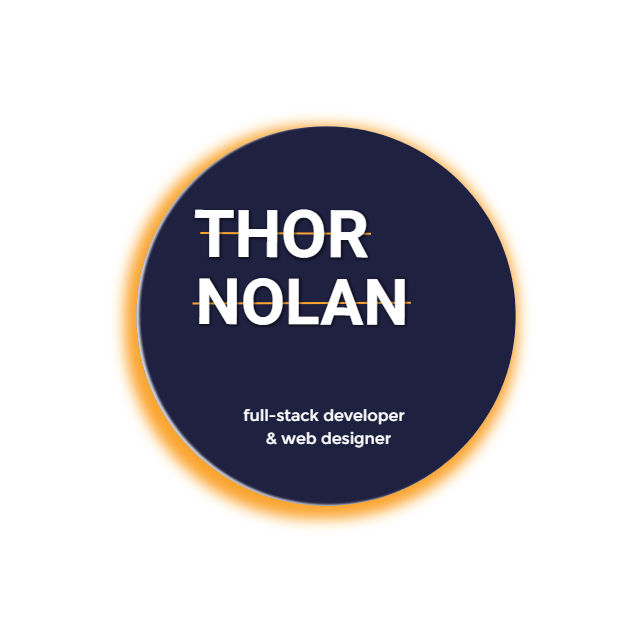
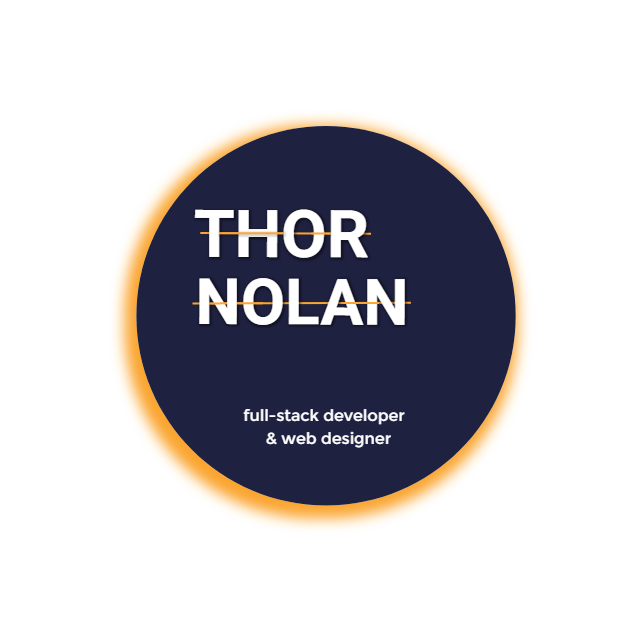
Overhaul of site color scheme, starting transition into scss with better organization of layout and component css

diff --git a/assets/javascript/app.js b/assets/javascript/app.js
@@ -19,20 +19,20 @@ $(document).ready(function () {
   });
   
   // Active link switching
-  $(window).scroll(function() {
-    var scrollbarLocation = $(this).scrollTop();
+  // $(window).scroll(function() {
+  //   var scrollbarLocation = $(this).scrollTop();
     
-    scrollLink.each(function() {
+  //   scrollLink.each(function() {
       
-      var sectionOffset = $(this.hash).offset().top - 20;
+  //     var sectionOffset = $(this.hash).offset().top - 20;
       
-      if ( sectionOffset <= scrollbarLocation ) {
-        $(this).parent().addClass('active');
-        $(this).parent().siblings().removeClass('active');
-      }
-    })
+  //     if ( sectionOffset <= scrollbarLocation ) {
+  //       $(this).parent().addClass('active');
+  //       $(this).parent().siblings().removeClass('active');
+  //     }
+  //   })
     
-  });
+  // });
 
   resizeParallax();
 
@@ -130,23 +130,23 @@ $(document).ready(function () {
   particlesJS("particles-js", {
     "particles": {
       "number": {
-        "value": 290,
+        "value": 336,
         "density": {
           "enable": true,
-          "value_area": 4008.530152163807
+          "value_area": 2525.2724532232724
         }
       },
       "color": {
-        "value": "#fff"
+        "value": "#ffffff"
       },
       "shape": {
         "type": "circle",
         "stroke": {
           "width": 0,
-          "color": "#fff"
+          "color": "#ffffff"
         },
         "polygon": {
-          "nb_sides": 4
+          "nb_sides": 3
         },
         "image": {
           "src": "img/github.svg",
@@ -155,35 +155,35 @@ $(document).ready(function () {
         }
       },
       "opacity": {
-        "value": 0.4734885849793636,
+        "value": 0.5,
         "random": true,
         "anim": {
           "enable": true,
-          "speed": 0.7192807192807193,
-          "opacity_min": 0.5674325674325674,
-          "sync": true
+          "speed": 1,
+          "opacity_min": 0.1998,
+          "sync": false
         }
       },
       "size": {
-        "value": 2.5,
+        "value": 3,
         "random": true,
         "anim": {
-          "enable": true,
-          "speed": 7.192807192807193,
-          "size_min": 0.7992007992007992,
+          "enable": false,
+          "speed": 40,
+          "size_min": 0.1,
           "sync": false
         }
       },
       "line_linked": {
         "enable": true,
-        "distance": 64.13648243462092,
-        "color": "#fff",
-        "opacity": 0.33933348590187723,
-        "width": 1.4204657549380908
+        "distance": 13,
+        "color": "#ffffff",
+        "opacity": 0.4,
+        "width": 1
       },
       "move": {
         "enable": true,
-        "speed": 1,
+        "speed": 0.75,
         "direction": "none",
         "random": true,
         "straight": false,
@@ -191,8 +191,8 @@ $(document).ready(function () {
         "bounce": false,
         "attract": {
           "enable": true,
-          "rotateX": 2446.3576890600452,
-          "rotateY": 236.7442924896818
+          "rotateX": 1499,
+          "rotateY": 1499
         }
       }
     },
@@ -201,35 +201,30 @@ $(document).ready(function () {
       "events": {
         "onhover": {
           "enable": true,
-          "mode": "grab"
+          "mode": "bubble"
         },
         "onclick": {
           "enable": true,
           "mode": "push"
         },
-        "resize": true,
-        "onresize": {
-          "enable": true,
-          "density_auto": true,
-          "density_area": 400 // nb_particles = particles.nb * (canvas width *  canvas height / 1000) / density_area
-        }
+        "resize": true
       },
       "modes": {
         "grab": {
-          "distance": 263.73626373626377,
+          "distance": 400,
           "line_linked": {
             "opacity": 1
           }
         },
         "bubble": {
-          "distance": 121.81158184520176,
-          "size": 27.972027972027973,
-          "duration": 2,
+          "distance": 200,
+          "size": 4.2,
+          "duration": 1.25,
           "opacity": 8,
           "speed": 3
         },
         "repulse": {
-          "distance": 0,
+          "distance": 105,
           "duration": 0.4
         },
         "push": {

diff --git a/assets/css/styles.css b/assets/css/styles.css
@@ -330,24 +330,7 @@ font-family: 'Montserrat', sans-serif;
 .side-nav li > a {
   color: #eee;
   padding-top: 10%;
-}
-
-/* typewriter effect for title below name */
-
-.typewriter {
-  margin: auto;
-}
-
-.typewriter h5 {
-  width: auto;
-  overflow: hidden;
-  border-right: .15em solid #0ac8d4;
-  white-space: nowrap;
-  margin: 0 auto;
-  letter-spacing: .15em;
-  animation: typing 2.5s steps(40, end),
-  blink-caret .75s step-end infinite;
-}
+} 
 
 #main {
   height: 100vh;
@@ -361,30 +344,6 @@ font-family: 'Montserrat', sans-serif;
 #moon {
   margin-left: 23%;
   margin-top: -18%;
-}
-
-/* typing effect */
-@keyframes typing {
-  from {
-    width: 0
-  }
-
-  to {
-    width: 100%
-  }
-}
-
-/* typewriter cursor effect */
-@keyframes blink-caret {
-
-  from,
-  to {
-    border-color: transparent
-  }
-
-  50% {
-    border-color: #0ac8d4;
-  }
 }
 
 /* Underline From center effect, customized but originally from Hover.css */
@@ -404,7 +363,7 @@ font-family: 'Montserrat', sans-serif;
   left: 51%;
   right: 51%;
   bottom: 0;
-  background: #0ac8d4;
+  background: #FB9C35;
   height: 2.75px;
   -webkit-transition-property: left, right;
   transition-property: left, right;
@@ -433,7 +392,7 @@ font-family: 'Montserrat', sans-serif;
   margin-left: -500px;
   margin-top: -500px;
   border-radius: 42%;
-  background: #0ac8d4;
+  background: #FB9C35;
   -moz-filter: blur(0.5px);
   -webkit-filter: blur(0.5px);
   filter: blur(0.5px);
@@ -579,7 +538,7 @@ font-family: 'Montserrat', sans-serif;
   stroke-dasharray: 140 540;
   stroke-dashoffset: -474;
   stroke-width: 8px;
-  stroke: #0ac8d4;
+  stroke: #FB9C35;
 }
 
 .outlined-text {
@@ -648,11 +607,15 @@ font-family: 'Montserrat', sans-serif;
 }
 
 .fab {
-  background: linear-gradient(43deg, #3552b2, #0077B5, #0ac8d4) !important;
+  background: #FF4E50;  /* fallback for old browsers */
+  background: -webkit-linear-gradient(to right, #F9D423, #FF4E50);  /* Chrome 10-25, Safari 5.1-6 */
+  background: linear-gradient(to right, #F9D423, #FF4E50); /* W3C, IE 10+/ Edge, Firefox 16+, Chrome 26+, Opera 12+, Safari 7+ */
 }
 
 .fab:hover {
-  background: linear-gradient(43deg, #3552b2, #0077B5, #0ac8d4) !important;
+  background: #FF4E50;  /* fallback for old browsers */
+  background: -webkit-linear-gradient(to right, #F9D423, #FF4E50);  /* Chrome 10-25, Safari 5.1-6 */
+  background: linear-gradient(to right, #F9D423, #FF4E50); /* W3C, IE 10+/ Edge, Firefox 16+, Chrome 26+, Opera 12+, Safari 7+ */
 }
 
 .transition-svg {
@@ -668,7 +631,7 @@ font-family: 'Montserrat', sans-serif;
 
 .parallax-section {
   height: 450px;
-  margin-top: -3%;
+  margin-top: -3.7%;
   z-index: -1000;
 	background-image: url('../images/big-sur.jpg');
 	background-attachment: fixed;
@@ -691,7 +654,7 @@ font-family: 'Montserrat', sans-serif;
 }
 
 .blue-text {
-  color: #0ac8d4 !important;
+  color: #FB9C35 !important;
 }
 
 .card {
@@ -742,7 +705,7 @@ video::-webkit-media-controls {
 }
 
 .material-icons.active {
-  color: #0ac8d4 !important;
+  color: #FB9C35 !important;
 }
 
 .page-footer {
@@ -761,7 +724,7 @@ video::-webkit-media-controls {
 }
 
 .back-to-top:hover i {
-  color: #0ac8d4;
+  color: #FB9C35;
 }
 
 .footer-links {
@@ -787,7 +750,7 @@ video::-webkit-media-controls {
 }
 
 .footer-a:hover i {
-  color: #0ac8d4;
+  color: #FB9C35;
 }
 
 /* Responsiveness for changes in screen size with media queries */
@@ -819,7 +782,7 @@ video::-webkit-media-controls {
   }
 
   .transition-svg {
-    margin-bottom: -0.75%;
+    margin-bottom: 0;
   }
 
 }

diff --git a/index.html b/index.html
@@ -96,28 +96,13 @@
   <!-- LANDING AREA WITH PARTICLES AND NAME -->
   <div id="particles-js" id="scene">
     <div id="landing">
-      <!-- <div class="container" data-relative-input="true">
-
-        <h1 class="fullName" data-depth="0.2">
-          <span id="firstName">THOR</span><span><b id="lastName">NOLAN</b></span>
-        </h1> -->
-
-        <!-- typewriter effect -->
-        <!-- <div class="typeHolder" data-depth="0.6">
-          <div class="typewriter">
-            <h5 id="mainText" class="flow-text">Full-Stack Developer</h5>
-          </div>
-        </div> -->
-
-      <!-- </div> -->
-
       <div id="main">
         <div data-relative-input="true" id="scene">
           <div data-depth="0.4">
             <img src="assets/images/flat-sun.png" alt="Flat cartoon sun" id="moon">
           </div>
           <div data-depth="0.8">
-            <img src="assets/images/eclipsed-planet-text.png" alt="Flat blue planet">
+            <img src="assets/images/eclipsed-planet-text.png" alt="Eclipsed moon with text: Thor Nolan, full-stack web developer and designer.">
           </div>
         </div>
       </div>
